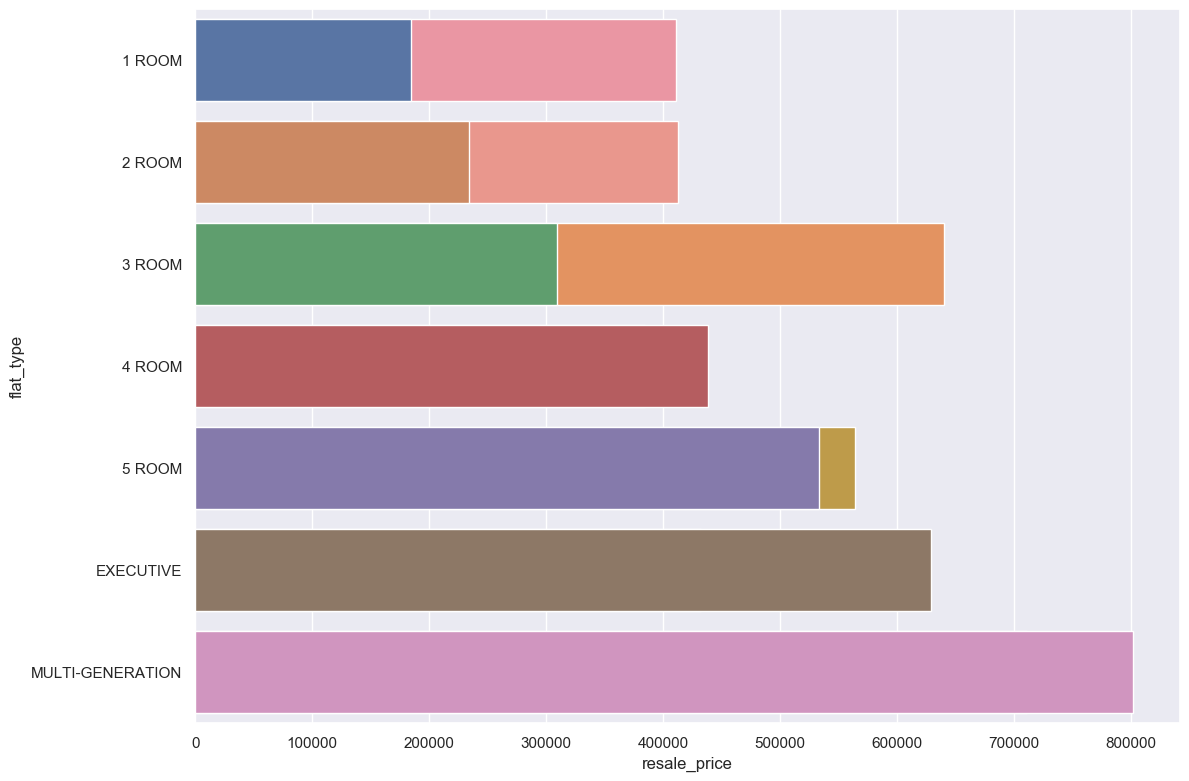
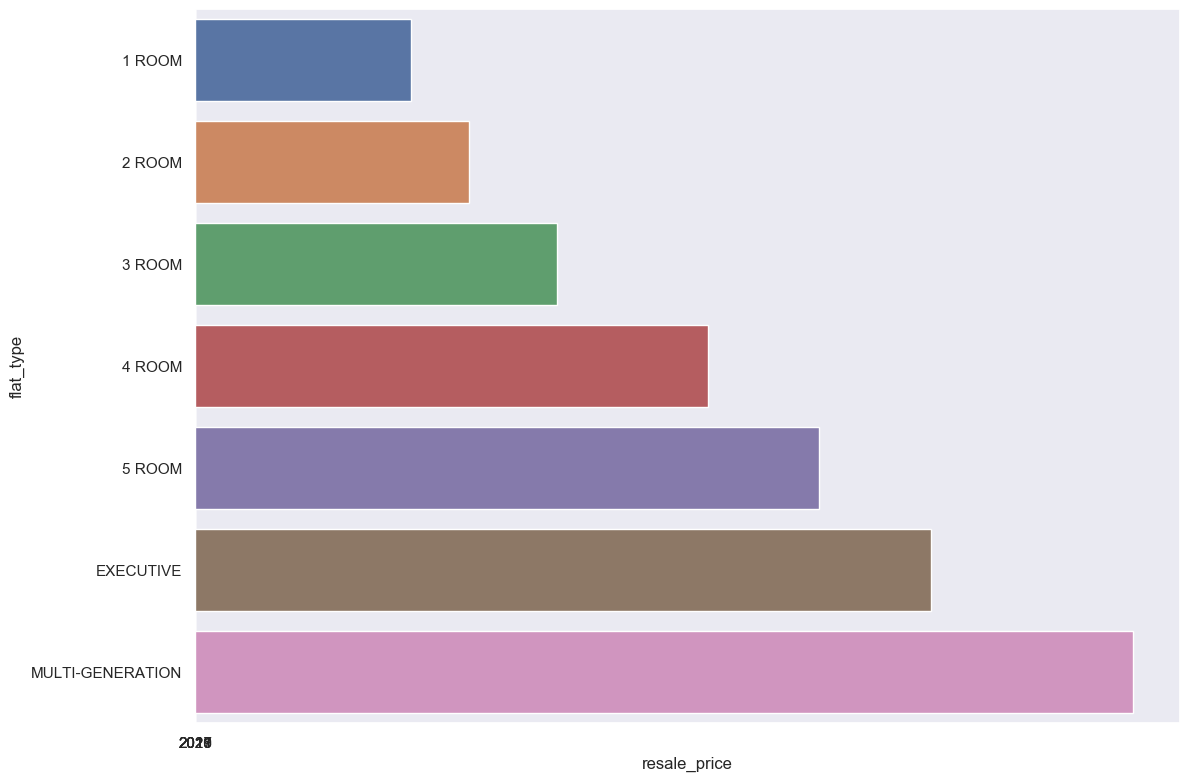
updated formula

diff --git a/CZ2006/utility/estimateResalePrice.py b/CZ2006/utility/estimateResalePrice.py
@@ -1,0 +1,113 @@
+def calculatePrice(town, flatmodel, flattype, remainingl, floorarea):
+    if town=="BISHAN":
+        xtown = 99280.849356
+    elif town == "BEDOK":
+        xtown = -11097.628624
+    elif town == "BUKIT BATOK":
+        xtown = -89006.593000
+    elif town == "BUKIT MERAH":
+        xtown = 122398.793046
+    elif town == "BUKIT PANJANG":
+        xtown = -132432.395942
+    elif town == "BUKIT TIMAH":
+        xtown = 202068.546746
+    elif town == "CENTRAL AREA":
+        xtown = 125503.193081
+    elif town == "CHOA CHU KANG":
+        xtown = -183248.110021
+    elif town == "CLEMENTI":
+        xtown =  42478.145990
+    elif town == "GEYLANG":
+        xtown = 42178.369581
+    elif town == "HOUGANG":
+        xtown = -86854.300475
+    elif town == "JURONG EAST":
+        xtown = -66780.527882
+    elif town == "JURONG WEST":
+        xtown = -140701.192175
+    elif town == "KALLANG/WHAMPOA":
+        xtown = 61607.853297
+    elif town == "MARINE PARADE":
+        xtown = 164778.865337
+    elif town == "PASIR RIS":
+        xtown = -111327.585987
+    elif town == "PUNGGOL":
+        xtown = -131369.990688
+    elif town == "QUEENSTOWN":
+        xtown = 141707.753194
+    elif town == "SEMBAWANG":
+        xtown = -201099.714806
+    elif town == "SENGKANG":
+        xtown = -146652.931832
+    elif town == "SERANGOON":
+        xtown = -7162.885557
+    elif town == "TAMPINES":
+        xtown = -52185.521762
+    elif town == "TOA PAYOH":
+        xtown = 57549.396332
+    elif town == "WOODLANDS":
+        xtown = -176789.377810
+    elif town == "YISHUN":
+        xtown = -125828.947728
+    else:
+        xtown = 0
+    if flatmodel=="New Generation":
+        xmodel = 13609.868964
+    elif flatmodel=="Adjoined flat":
+        xmodel = 57992.900307
+    elif flatmodel=="Apartment":
+        xmodel = 18955.513638
+    elif flatmodel=="DBSS":
+        xmodel = 153078.137172
+    elif flatmodel=="Improved":
+        xmodel = -2223.630458
+    elif flatmodel=="Improved-Maisonette":
+        xmodel = 170588.477415
+    elif flatmodel=="Model A":
+        xmodel = 6.650883
+    elif flatmodel=="Model A-Maisonette":
+        xmodel = 117165.087397
+    elif flatmodel=="Model A2":
+        xmodel = -2028.514293
+    elif flatmodel=="Multi Generation":
+        xmodel = 113204.354194
+    elif flatmodel=="Premium Apartment":
+        xmodel = 8784.899432
+    elif flatmodel=="Premium Apartment Loft":
+        xmodel = 159835.142165
+    elif flatmodel=="Premium Maisonette":
+        xmodel = 64238.485880
+    elif flatmodel=="Simplified":
+        xmodel = 10036.341686
+    elif flatmodel=="Standard":
+        xmodel = 7662.284251
+    elif flatmodel=="Terrace":
+        xmodel = 335716.463350
+    elif flatmodel=="Type S1":
+        xmodel = 229031.840746
+    elif flatmodel=="Type S2":
+        xmodel = 274449.223234
+    elif flatmodel=="Maisonette":
+        xmodel = 48976.287619
+    else:
+        xmodel = 0
+
+    if flattype == "1 ROOM":
+        xflattype = 0
+    elif flattype == "2 ROOM":
+        xflattype = 1
+    elif flattype == "3 ROOM":
+        xflattype = 2
+    elif flattype == "4 ROOM":
+        xflattype = 3
+    elif flattype == "5 ROOM":
+        xflattype = 4
+    elif flattype == "EXECUTIVE":
+        xflattype = 5
+    elif flattype == "MULTI-GENERATION":
+        xflattype = 6
+    else:
+        xflattype = -1
+
+    res = -307783.988716 + xtown + xmodel + (xflattype*24787.173062) + (remainingl*5359.995190) + (floorarea*3428.700582)
+    return res

diff --git a/CZ2006/househunt/views.py b/CZ2006/househunt/views.py
@@ -12,6 +12,10 @@ from .datavis import readData, barPriceVsTown, barPriceVsFlatType, pointPriceVsY
 from django.template import RequestContext
 
 from django.http import HttpResponseRedirect
+import sys
+sys.path.append("..") # Adds higher directory to python modules path.
+
+from utility.estimateResalePrice import calculatePrice
 
 
 def home(request):
@@ -155,6 +159,7 @@ def estimate_result(request):
     flatTypeInput = request.POST['flatType']
     floorAreaInput = int(request.POST['floorArea'])
     remainingLeaseInput = float(request.POST['remainingLease'])
+#calculatePrice(town, flatmodel, flattype, remainingl, floorarea):
+    estimatedResalePrice =int(calculatePrice(townInput, flatModelInput, flatTypeInput, remainingLeaseInput, floorAreaInput))
 
-    estimatedResalePrice = 300 + 300*floorAreaInput + 3000*remainingLeaseInput + 100000
     return render(request, "househunt/estimate_result.html", {"estimatedResalePrice": estimatedResalePrice})
